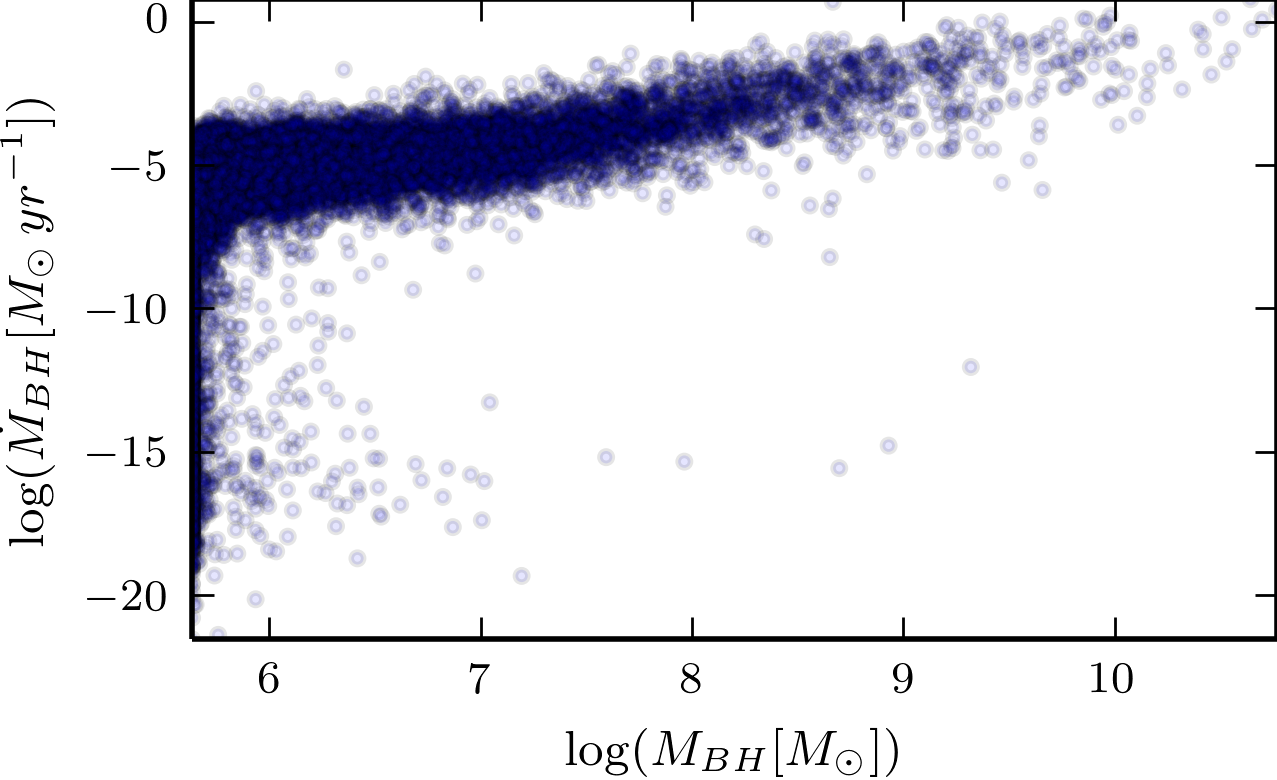
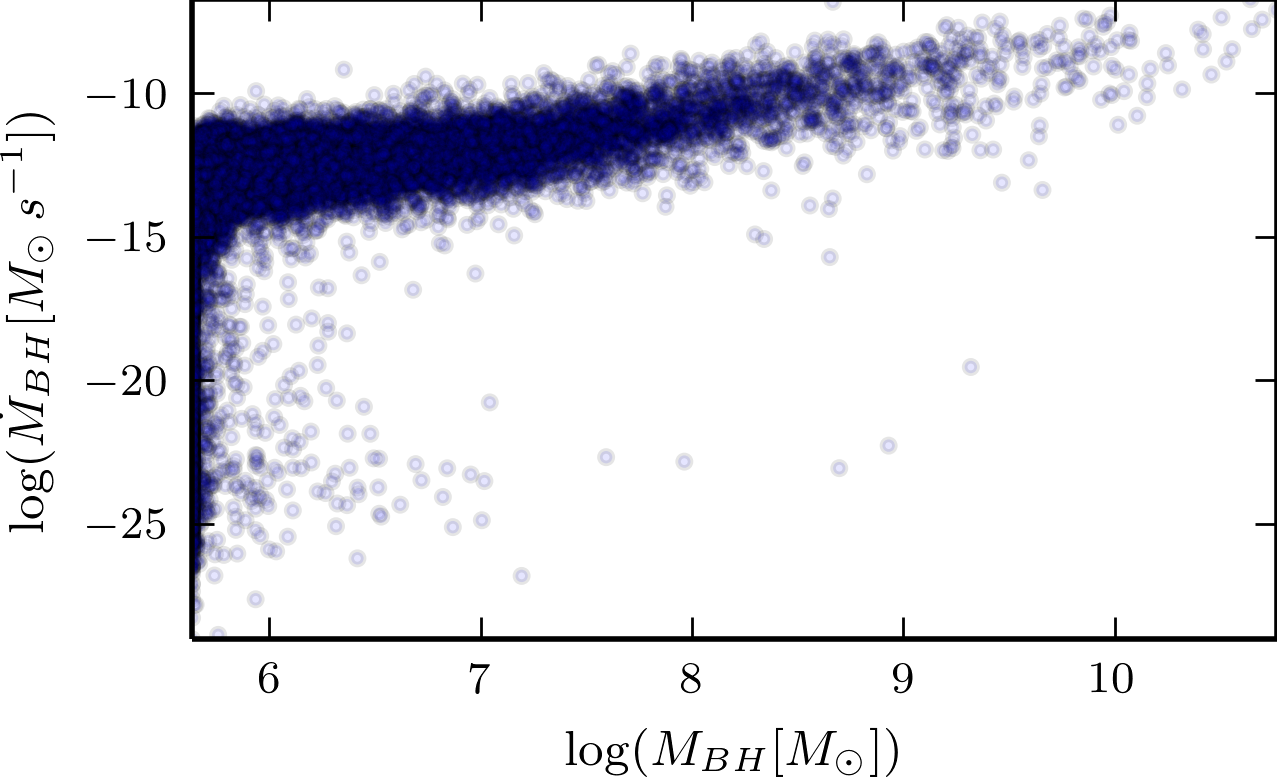
Changed accretion rate units back to M_sun/s.

diff --git a/makePlots.py b/makePlots.py
@@ -25,19 +25,19 @@ def save_fig(name):
 
 axisLabelTextSize = 9
 
-#data = np.loadtxt('elvis_templates.csv',delimiter=',')
+data = np.loadtxt('elvis_templates.csv',delimiter=',')
 
-#L_bol = data[:,0]*1e14
-#L_xray = data[:,1]*1e14
-#p = np.poly1d(np.polyfit(L_bol,L_xray,1))
-#fig = make_fig()
-#plt.scatter(L_bol,L_xray, marker='+', c='blue')
-#plt.plot(L_bol,p(L_bol),'r-')
-#plt.xlim(L_bol.min(),L_bol.max())
-#plt.ylim(L_xray.min(),L_xray.max())
-#plt.ylabel(r'X-ray Luminosity [$10^{-14}\,L_\odot$]', size=axisLabelTextSize)
-#plt.xlabel(r'Bolometric Luminosity [$10^{-14}\,L_\odot$]', size=axisLabelTextSize)
-#save_fig('Figures/elvis_template.png')
+L_bol = data[:,0]*1e14
+L_xray = data[:,1]*1e14
+p = np.poly1d(np.polyfit(L_bol,L_xray,1))
+fig = make_fig()
+plt.scatter(L_bol,L_xray, marker='+', c='blue')
+plt.plot(L_bol,p(L_bol),'r-')
+plt.xlim(L_bol.min(),L_bol.max())
+plt.ylim(L_xray.min(),L_xray.max())
+plt.ylabel(r'X-ray Luminosity [$10^{-14}\,L_\odot$]', size=axisLabelTextSize)
+plt.xlabel(r'Bolometric Luminosity [$10^{-14}\,L_\odot$]', size=axisLabelTextSize)
+save_fig('Figures/elvis_template.png')
 
 # Read catalog
 basedir = 'Illustris-3'
@@ -48,17 +48,17 @@ cond = (catalog.GroupBHMass != 0) * (catalog.GroupBHMdot > 0)
 
 # Convert to physical units (M_sun, M_sun/yr)
 bm_phys = 4.3e10 * catalog.GroupBHMass[cond]
-bmdot_phys = 9.72e-7 * 3.14e7 * catalog.GroupBHMdot[cond]
+bmdot_phys = 9.72e-7 * catalog.GroupBHMdot[cond]
 
-#fig = make_fig()
-#x = np.log10(bm_phys)
-#y = np.log10(bmdot_phys)
-#plt.scatter(x,y, marker='.', alpha=0.1)
-#plt.xlim(x.min(),x.max())
-#plt.ylim(y.min(),y.max())
-#plt.ylabel(r'$\log(\dot{M}_{BH} [M_{\odot}\,yr^{-1}])$',fontsize=axisLabelTextSize)
-#plt.xlabel(r'$\log(M_{BH} [M_{\odot}])$',fontsize=axisLabelTextSize)
-#save_fig('Figures/Illustris2_bhpop_full.png')
+fig = make_fig()
+x = np.log10(bm_phys)
+y = np.log10(bmdot_phys)
+plt.scatter(x,y, marker='.', alpha=0.1)
+plt.xlim(x.min(),x.max())
+plt.ylim(y.min(),y.max())
+plt.ylabel(r'$\log(\dot{M}_{BH} [M_{\odot}\,s^{-1}])$',fontsize=axisLabelTextSize)
+plt.xlabel(r'$\log(M_{BH} [M_{\odot}])$',fontsize=axisLabelTextSize)
+save_fig('Figures/Illustris2_bhpop_full.png')
 
 fig = make_fig()
 clf = mixture.GMM(n_components=2, covariance_type='full')
@@ -67,16 +67,16 @@ m1, m2 = clf.means_
 w1, w2 = clf.weights_
 c1, c2 = clf.covars_
 
-#histdist = matplotlib.pyplot.hist(np.log10(bmdot_phys), 100, normed=True)
-#plotgauss1 = lambda x: plt.plot(x,w1*matplotlib.mlab.normpdf(x,m1,np.sqrt(c1))[0], linewidth=2)
-#plotgauss2 = lambda x: plt.plot(x,w2*matplotlib.mlab.normpdf(x,m2,np.sqrt(c2))[0], linewidth=2)
-#plotgauss1(histdist[1])
-#plotgauss2(histdist[1])
-#plt.xlim(-22,1)
-#plt.ylim(0,0.55)
-#plt.xlabel('Accretion Rate [$log(M_{\odot} yr^{-1})$]', size=axisLabelTextSize)
-#plt.ylabel('fraction of sample', size=axisLabelTextSize)
-#save_fig('Figures/Illustris2_bhpop_mdot.png')
+histdist = matplotlib.pyplot.hist(np.log10(bmdot_phys), 100, normed=True)
+plotgauss1 = lambda x: plt.plot(x,w1*matplotlib.mlab.normpdf(x,m1,np.sqrt(c1))[0], linewidth=2)
+plotgauss2 = lambda x: plt.plot(x,w2*matplotlib.mlab.normpdf(x,m2,np.sqrt(c2))[0], linewidth=2)
+plotgauss1(histdist[1])
+plotgauss2(histdist[1])
+plt.xlim(-22,1)
+plt.ylim(0,0.55)
+plt.xlabel('Accretion Rate [$log(M_{\odot}\,s^{-1})$]', size=axisLabelTextSize)
+plt.ylabel('fraction of sample', size=axisLabelTextSize)
+save_fig('Figures/Illustris2_bhpop_mdot.png')
 
 print "m2 = %.3f" % m2
 
@@ -90,15 +90,15 @@ print "Min BH mass = %.3E" % bm_phys.min()
 print "Max BH mass = %.3E" % bm_phys.max()
 print "M+Mdot fit parms = " , p
 
-#fig = make_fig()
-#plt.plot(np.linspace(5., 11., 100), np.polyval(p, np.linspace(5., 11., 100)), c = 'g', linestyle = '--')
-#H, xedges, yedges = np.histogram2d(np.log10(bm_phys), np.log10(bmdot_phys), 30)
-#plt.imshow(H.T, origin='lower', extent=[xedges[0],xedges[-1],yedges[0],yedges[-1]], cmap='Oranges', norm=LogNorm(), aspect='auto', interpolation='none')
-#cbar = plt.colorbar(shrink=0.8, pad=0.03)
-#cbar.ax.tick_params(labelsize=6)
-#plt.ylabel(r'$log(\dot{M}_{BH} [M_{\odot}\,yr^{-1}]$)', fontsize=axisLabelTextSize)
-#plt.xlabel(r'$log(M_{BH} [M_{\odot}])$', fontsize=axisLabelTextSize)
-#save_fig('Figures/Illustris2_bhpop_hist2d.png')
+fig = make_fig()
+plt.plot(np.linspace(5., 11., 100), np.polyval(p, np.linspace(5., 11., 100)), c = 'g', linestyle = '--')
+H, xedges, yedges = np.histogram2d(np.log10(bm_phys), np.log10(bmdot_phys), 30)
+plt.imshow(H.T, origin='lower', extent=[xedges[0],xedges[-1],yedges[0],yedges[-1]], cmap='Oranges', norm=LogNorm(), aspect='auto', interpolation='none')
+cbar = plt.colorbar(shrink=0.8, pad=0.03)
+cbar.ax.tick_params(labelsize=6)
+plt.ylabel(r'$log(\dot{M}_{BH} [M_{\odot}\,s^{-1}]$)', fontsize=axisLabelTextSize)
+plt.xlabel(r'$log(M_{BH} [M_{\odot}])$', fontsize=axisLabelTextSize)
+save_fig('Figures/Illustris2_bhpop_hist2d.png')
 
 ## finding q and K using convergence
 # General idea:
